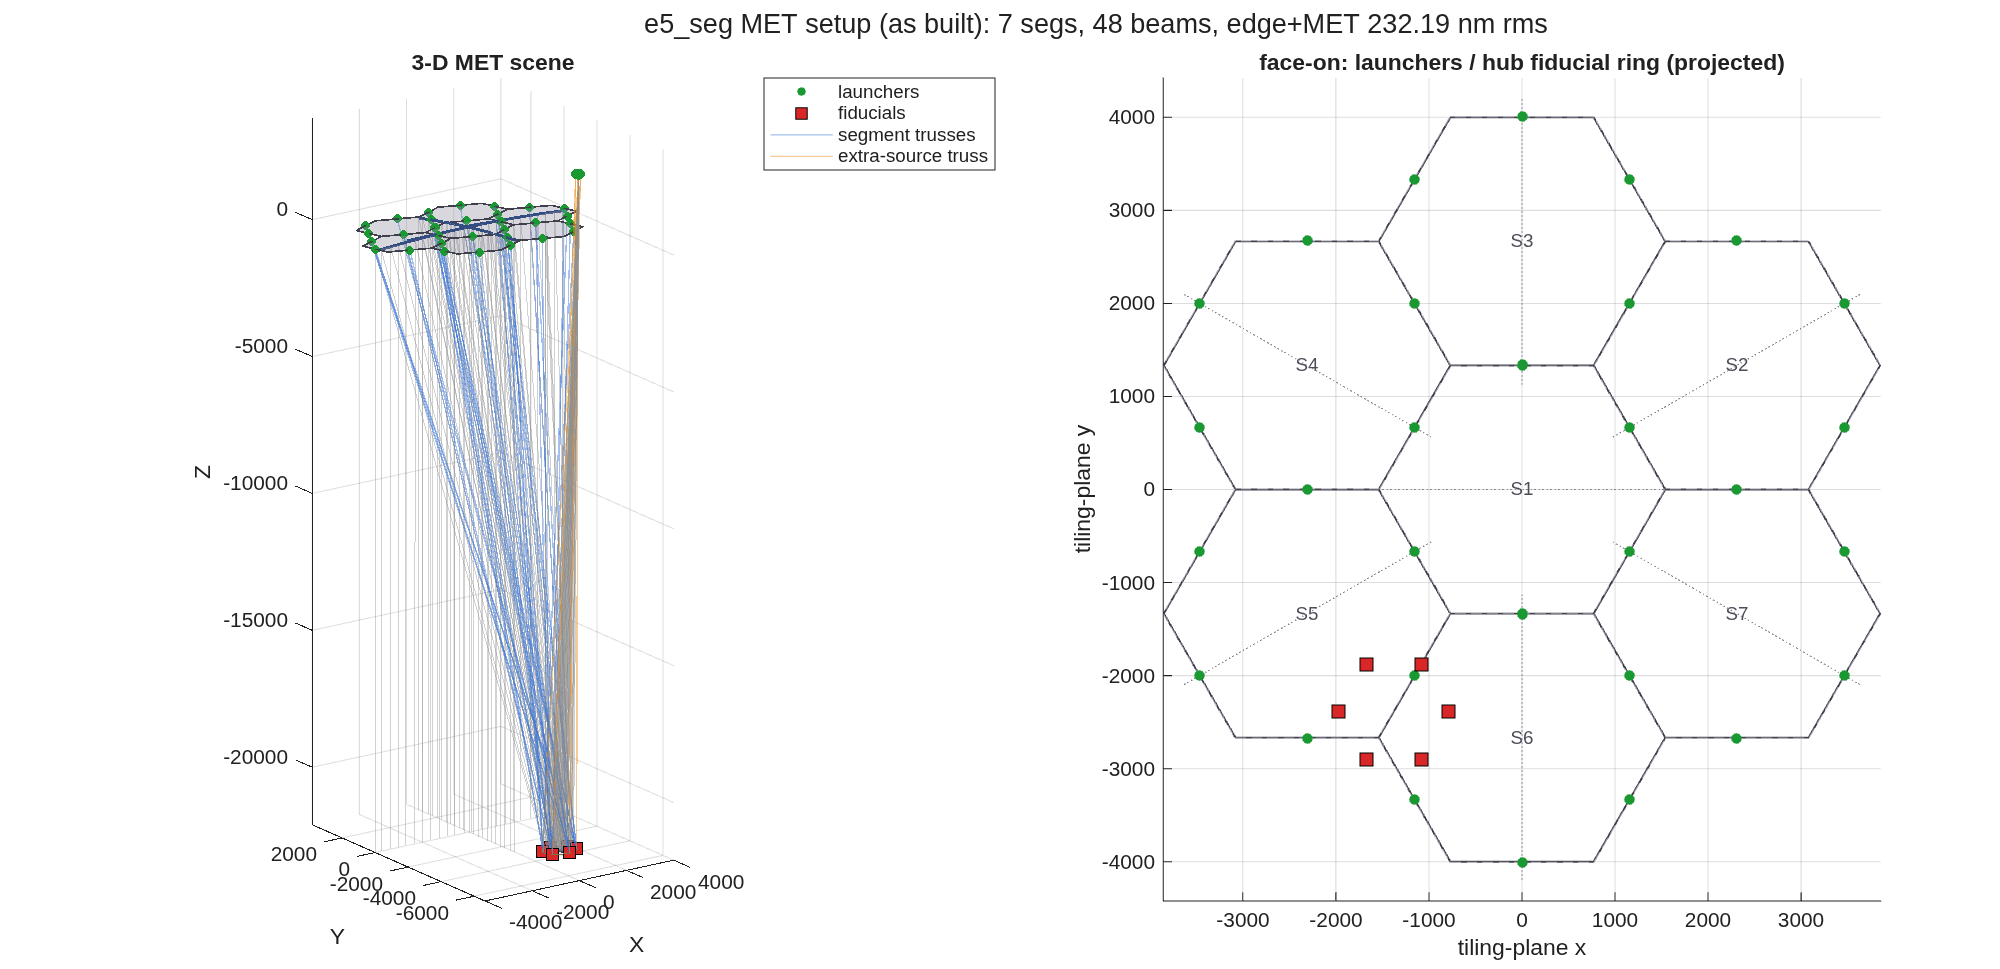
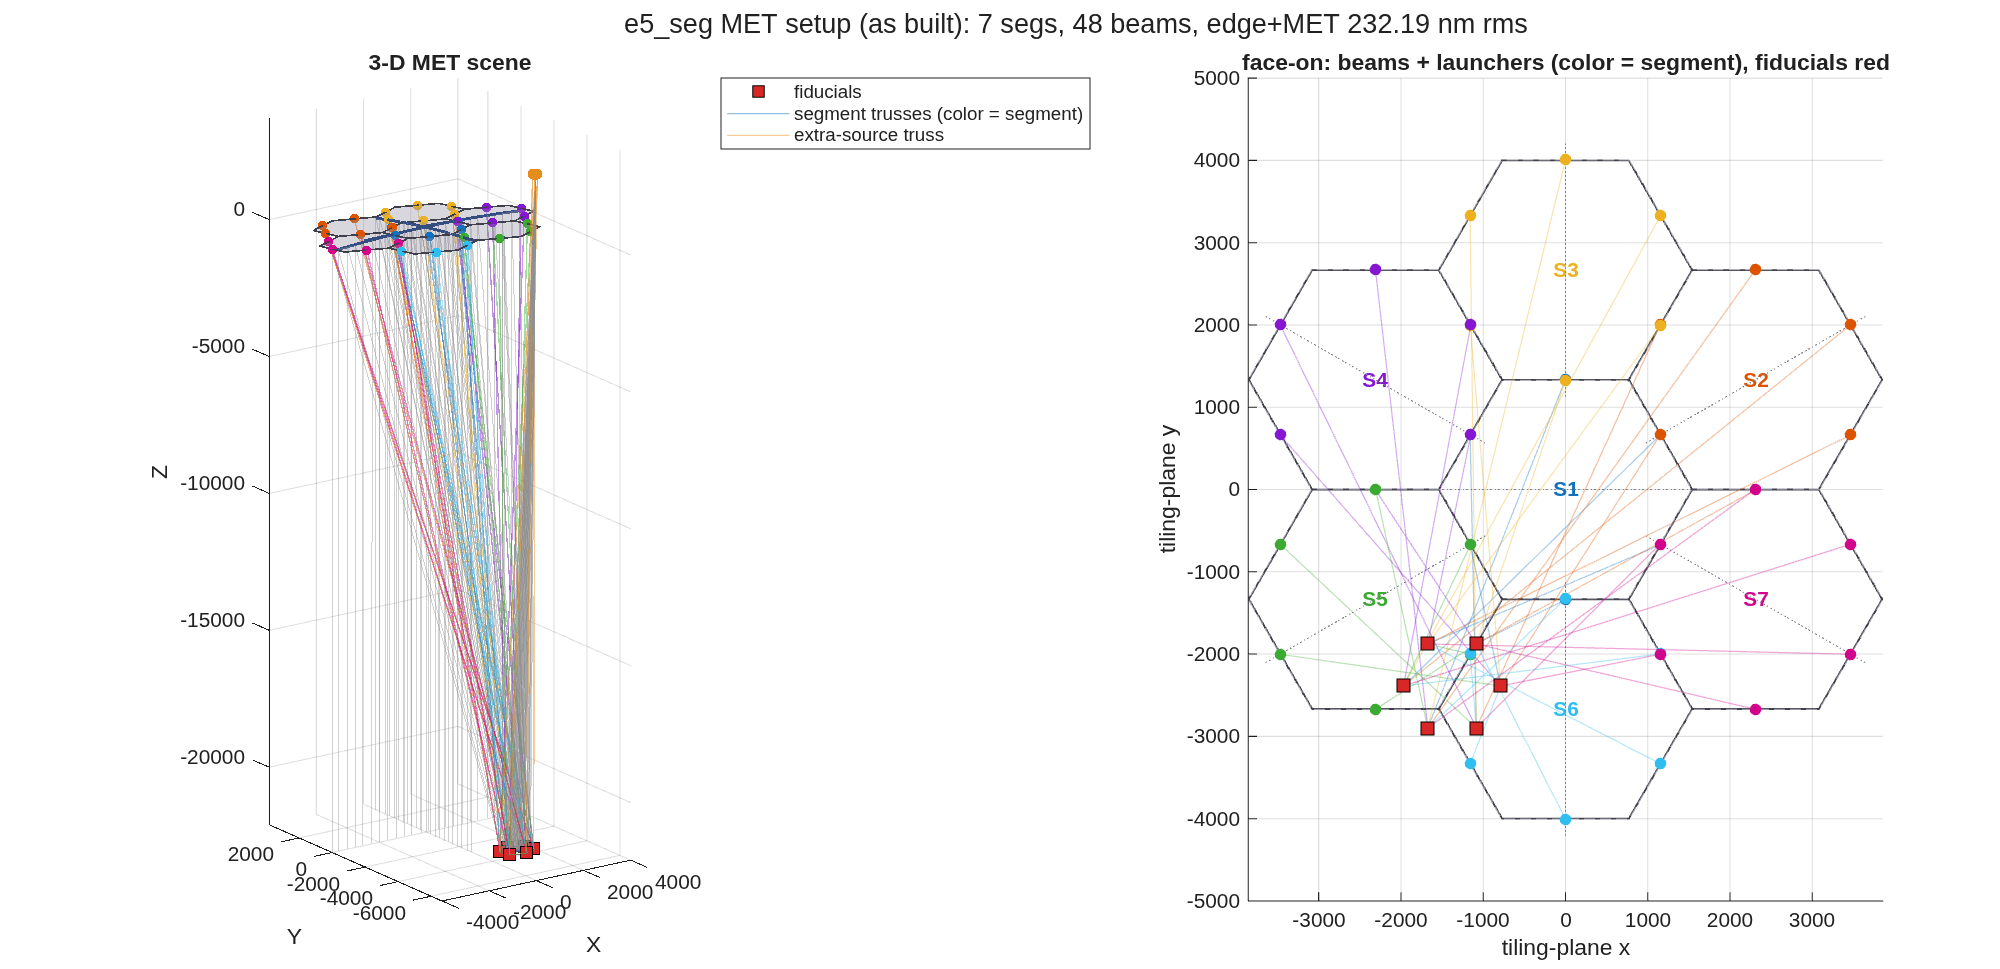
mmacos: readable MET layout views + pattern-frame / family knobs (Dave)
met_view (Dave 2026-07-16: "still hard to interpret"):
- face-on panel now draws the PROJECTED gauge beams launcher->fiducial,
  and launcher<->segment association is explicit: launchers, beams, and
  the segment label share a per-segment color (both panels; 3-D trusses
  too).  Fiducials stay red squares; overlay/baseline = grey circles.

e5_seg_metopt knobs:
- PATTERN_FRAME 'radial' (default) | 'segment': launcher pattern
  referenced to each segment's OWN face-frame x-axis, so every segment
  in a ring carries the IDENTICAL pattern wrt its clocking
  (builder-uniform parts, Dave).
- FAMILIES ["spread" "cluster"]: cluster pairs stay FIRST-CLASS -- co-
  located pairs help decouple segment DEFORMATION from rigid-body DOFs
  in the estimator (Dave), regardless of this fixture's rigid-DOF
  scores.

tMetView 4/4 (legend keyed by the truss entry now).  Both layout PNGs
re-rendered.

diff --git a/mmacos/src/+macos/+design/met_view.m b/mmacos/src/+macos/+design/met_view.m
@@ -118,28 +118,38 @@ D  = hc + rd*(ux*cos(th) + uy*sin(th));
 patch(ax3, D(1,:), D(2,:), D(3,:), [0.75 0.7 0.55], ...
       'FaceAlpha', 0.25, 'EdgeColor', [0.5 0.45 0.3]);
 
-% MET beams: segment trusses (blue) / extra-source truss (orange)
-i1 = 1:min(nsrc_seg, nbeam);  i2 = (min(nsrc_seg, nbeam)+1):nbeam;
-hb1 = beams_(ax3, am.src_pts(:,i1), am.tgt_pts(:,i1), [0.20 0.45 0.85]);
+% MET beams + launchers, COLORED PER OWNING SEGMENT (Dave 2026-07-16:
+% the association must be readable); extra-source truss orange.
+segcol = seg_colors_(nseg);
+i2 = (min(nsrc_seg, nbeam)+1):nbeam;
+hb1 = gobjects(0);
+for s = 1:nseg
+    js = (s-1)*6 + (1:6);  js = js(js <= nbeam);
+    h = beams_(ax3, am.src_pts(:,js), am.tgt_pts(:,js), segcol(s,:));
+    plot3(ax3, am.src_pts(1,js), am.src_pts(2,js), am.src_pts(3,js), ...
+          'o', 'MarkerSize', 4.5, 'MarkerFaceColor', segcol(s,:), ...
+          'MarkerEdgeColor', 'none', 'LineStyle', 'none');
+    if isempty(hb1), hb1 = h; end
+end
 hb2 = beams_(ax3, am.src_pts(:,i2), am.tgt_pts(:,i2), [0.90 0.55 0.10]);
-
-% launchers + fiducials
-hl = plot3(ax3, am.src_pts(1,:), am.src_pts(2,:), am.src_pts(3,:), 'o', ...
-     'MarkerSize', 4, 'MarkerFaceColor', [0.1 0.6 0.2], ...
-     'MarkerEdgeColor', 'none', 'LineStyle', 'none');
+if ~isempty(i2)
+    plot3(ax3, am.src_pts(1,i2), am.src_pts(2,i2), am.src_pts(3,i2), ...
+          'o', 'MarkerSize', 4.5, 'MarkerFaceColor', [0.90 0.55 0.10], ...
+          'MarkerEdgeColor', 'none', 'LineStyle', 'none');
+end
 hf = plot3(ax3, fid(1,:), fid(2,:), fid(3,:), 's', ...
      'MarkerSize', 7, 'MarkerFaceColor', [0.85 0.15 0.15], ...
      'MarkerEdgeColor', 'k', 'LineStyle', 'none');
 if ~isempty(opts.overlay_pts)
     plot3(ax3, opts.overlay_pts(1,:), opts.overlay_pts(2,:), ...
           opts.overlay_pts(3,:), 'o', 'MarkerSize', 5, ...
-          'MarkerEdgeColor', [0.1 0.6 0.2], 'LineStyle', 'none');
+          'MarkerEdgeColor', [0.4 0.4 0.4], 'LineStyle', 'none');
 end
 
 axis(ax3, 'equal'); grid(ax3, 'on'); view(ax3, [-35 18]);
 xlabel(ax3, 'X'); ylabel(ax3, 'Y'); zlabel(ax3, 'Z');
-hh = [hl hf];  lb = {'launchers', 'fiducials'};
-if ~isempty(hb1), hh(end+1) = hb1; lb{end+1} = 'segment trusses'; end
+hh = hf;  lb = {'fiducials'};
+if ~isempty(hb1), hh(end+1) = hb1; lb{end+1} = 'segment trusses (color = segment)'; end
 if ~isempty(hb2), hh(end+1) = hb2; lb{end+1} = 'extra-source truss'; end
 legend(ax3, hh, lb, 'Location', 'northeastoutside');   % clear of the scene
 title(ax3, '3-D MET scene');
@@ -159,8 +169,8 @@ for s = 1:nseg
     end
     cs = C2(:, s);
     text(ax2, cs(1), cs(2), sprintf('S%d', s), ...
-         'HorizontalAlignment', 'center', 'FontSize', 9, ...
-         'Color', [0.3 0.3 0.35]);
+         'HorizontalAlignment', 'center', 'FontSize', 10, ...
+         'FontWeight', 'bold', 'Color', segcol(s,:));
     % radial centerline (the pair-symmetry axis), sized to the segment
     hw = max(vecnorm(prj(B0.poly{s}) - cs));
     dr = [cos(rad_ang(s)); sin(rad_ang(s))];
@@ -168,23 +178,34 @@ for s = 1:nseg
     plot(ax2, cl(1,:), cl(2,:), ':', 'Color', [0.5 0.5 0.55]);
 end
 
-Lp = prj(am.src_pts(:, i1));             % segment launchers only
-plot(ax2, Lp(1,:), Lp(2,:), 'o', 'MarkerSize', 5, ...
-     'MarkerFaceColor', [0.1 0.6 0.2], 'MarkerEdgeColor', 'none', ...
-     'LineStyle', 'none');
+% projected MET beams launcher->fiducial + launchers, colored per
+% owning segment (label text matches), fiducials red squares
 Fp = prj(fid);
+for s = 1:nseg
+    js = (s-1)*6 + (1:6);  js = js(js <= nbeam);
+    Sp = prj(am.src_pts(:, js));
+    Tp = prj(am.tgt_pts(:, js));
+    n = size(Sp, 2);
+    Xb = [Sp(1,:); Tp(1,:); nan(1,n)];
+    Yb = [Sp(2,:); Tp(2,:); nan(1,n)];
+    plot(ax2, Xb(:), Yb(:), '-', 'Color', [segcol(s,:) 0.35], ...
+         'LineWidth', 0.6);
+    plot(ax2, Sp(1,:), Sp(2,:), 'o', 'MarkerSize', 5.5, ...
+         'MarkerFaceColor', segcol(s,:), 'MarkerEdgeColor', 'none', ...
+         'LineStyle', 'none');
+end
 plot(ax2, Fp(1,:), Fp(2,:), 's', 'MarkerSize', 8, ...
      'MarkerFaceColor', [0.85 0.15 0.15], 'MarkerEdgeColor', 'k', ...
      'LineStyle', 'none');
 if ~isempty(opts.overlay_pts)
     Op = prj(opts.overlay_pts);
     plot(ax2, Op(1,:), Op(2,:), 'o', 'MarkerSize', 6, ...
-         'MarkerEdgeColor', [0.1 0.6 0.2], 'LineStyle', 'none');
+         'MarkerEdgeColor', [0.4 0.4 0.4], 'LineStyle', 'none');
 end
 
 axis(ax2, 'equal'); grid(ax2, 'on');
 xlabel(ax2, 'tiling-plane x'); ylabel(ax2, 'tiling-plane y');
-title(ax2, 'face-on: launchers / hub fiducial ring (projected)');
+title(ax2, 'face-on: beams + launchers (color = segment), fiducials red');
 
 if isempty(opts.title)
     opts.title = sprintf('MET setup: %d segments, %d launchers, %d fiducials, %d gauge beams', ...
@@ -198,6 +219,16 @@ if ~isempty(opts.save), print(fig, opts.save, '-dpng', '-r150'); end
 end
 
 % ---------------------------------------------------------------------------
+function C = seg_colors_(n)
+%SEG_COLORS_  n distinguishable segment colors (stable across panels).
+base = lines(7);
+C = base(mod(0:n-1, 7) + 1, :);
+if n > 7                                  % 2-ring+: darken repeats
+    k = ceil((8:n)/7) - 1;
+    C(8:n, :) = max(C(8:n, :) - 0.25*k(:), 0);
+end
+end
+
 function h = beams_(ax, S, T, col)
 %BEAMS_  One line object for all gauge beams S(:,k)->T(:,k) (NaN-separated).
 if isempty(S), h = gobjects(0); return; end

diff --git a/mmacos/design/examples/e5_seg/e5_seg_metopt.m b/mmacos/design/examples/e5_seg/e5_seg_metopt.m
@@ -33,6 +33,18 @@
 
 EDGE_OFF = 5;                      % launcher clearance off the optical edge, mm
 MIN_SEP  = 50;                     % min launcher-launcher separation, mm
+PATTERN_FRAME = 'radial';          % launcher-pattern reference per segment:
+                                   %  'radial'  = its radial centerline (max
+                                   %              symmetry wrt the array)
+                                   %  'segment' = its OWN face-frame x-axis --
+                                   %              every segment in a ring gets
+                                   %              the IDENTICAL pattern wrt its
+                                   %              clocking (builder-uniform
+                                   %              parts, Dave 2026-07-16)
+FAMILIES = ["spread" "cluster"];   % keep BOTH: clustered pairs stay a
+                                   % first-class option -- co-located pairs
+                                   % help decouple segment DEFORMATION from
+                                   % rigid-body DOFs in the estimator (Dave)
 PHI_GRID  = deg2rad(10:10:170);    % 'spread': candidate pair angles
 PSI_GRID  = deg2rad(20:20:160);    % 'cluster': mirrored cluster centers
 C0_GRID   = [0 pi];                % 'cluster': on-centerline cluster
@@ -79,9 +91,19 @@ T = macos.design.hex_tile(seg, EDGE_OFF);
 C2 = [T.u.'; T.v.'] * ([seg.frames.rpt] - T.c0);
 rad_ang = atan2(C2(2,:), C2(1,:));
 rad_ang(vecnorm(C2) < 1e-6) = 0;
+% launcher-pattern reference angle per segment (PATTERN_FRAME)
+if strcmpi(PATTERN_FRAME, 'segment')
+    ref_ang = zeros(1, nseg);            % segment face-frame x in tiling plane
+    for s2 = 1:nseg
+        xs = seg.frames(s2).xhat;
+        ref_ang(s2) = atan2(dot(xs, T.v), dot(xs, T.u));
+    end
+else
+    ref_ang = rad_ang;
+end
 ctx = struct('pv',pv,'xh',xh,'yh',yh,'seg',seg,'nseg',nseg, ...
     'bodies',bodies,'E',E,'X',X,'G',G,'nw',nw,'sige',sige,'sigl',sigl, ...
-    'rad_ang',rad_ang,'T',T,'C2',C2,'min_sep',MIN_SEP);
+    'ref_ang',ref_ang,'T',T,'C2',C2,'min_sep',MIN_SEP);
 
 % baseline = edge ring, Stewart crossing struts, rim-zone fiducials
 base = struct('family',"spread", 'angs',deg2rad([30 90 150 -30 -90 -150]), ...
@@ -101,6 +123,7 @@ spread_pmaps = { ...
     3, [1 2 2 3 3 1; 1 1 2 2 3 3; 1 2 3 1 2 3]; ...
     6, [1 2 3 4 5 6; 1 4 2 5 3 6; 2 1 4 3 6 5]};
 combos = nchoosek(1:numel(PHI_GRID), 3);
+if ~any(FAMILIES == "spread"), combos = combos([], :); end
 for ci = 1:size(combos,1)
     phis = PHI_GRID(combos(ci,:));
     for nfi = 1:size(spread_pmaps,1)
@@ -118,6 +141,7 @@ n_spread = numel(cands);
 % Structured assignment (tractable, symmetry-aware): cluster k gets the
 % pair (1+o_k, 1+mod(o_k+d, nf)) -- one index STRIDE d shared by all
 % clusters, free per-cluster offsets o_k, both beam orders.
+if ~any(FAMILIES == "cluster"), C0_GRID = []; end
 for c0v = C0_GRID
   for psi = PSI_GRID
     for dl = DELTA_GRID
@@ -233,7 +257,7 @@ function [ok, LP, src] = place_(lay, c)
 src = zeros(3, 6*c.nseg);
 LP = cell(1, c.nseg);
 for s3 = 1:c.nseg
-    phi = c.rad_ang(s3) + lay.angs;                   % 6 tiling angles
+    phi = c.ref_ang(s3) + lay.angs;                   % 6 tiling angles
     r  = c.T.boundary(phi, s3);                       % offset-hex boundary
     P2 = c.C2(:, s3) + r.*[cos(phi); sin(phi)];
     P6 = c.T.c0 + c.T.u*P2(1,:) + c.T.v*P2(2,:);

diff --git a/mmacos/tests/tMetView.m b/mmacos/tests/tMetView.m
@@ -30,10 +30,11 @@ classdef tMetView < matlab.unittest.TestCase
             % one hex patch per segment + the hub disc
             pt = findobj(fig, 'Type', 'patch');
             testCase.verifyNumElements(pt, seg.nseg + 1);
-            % legend carries the annotation vocabulary
+            % legend carries the annotation vocabulary (launchers are
+            % colored per segment, keyed by the truss entry)
             lg = findobj(fig, 'Type', 'legend');
             testCase.assertNotEmpty(lg);
-            testCase.verifyTrue(any(contains(lg.String, 'launchers')));
+            testCase.verifyTrue(any(contains(lg.String, 'fiducials')));
             testCase.verifyTrue(any(contains(lg.String, 'segment trusses')));
             testCase.verifyTrue(any(contains(lg.String, 'extra-source truss')));
         end
